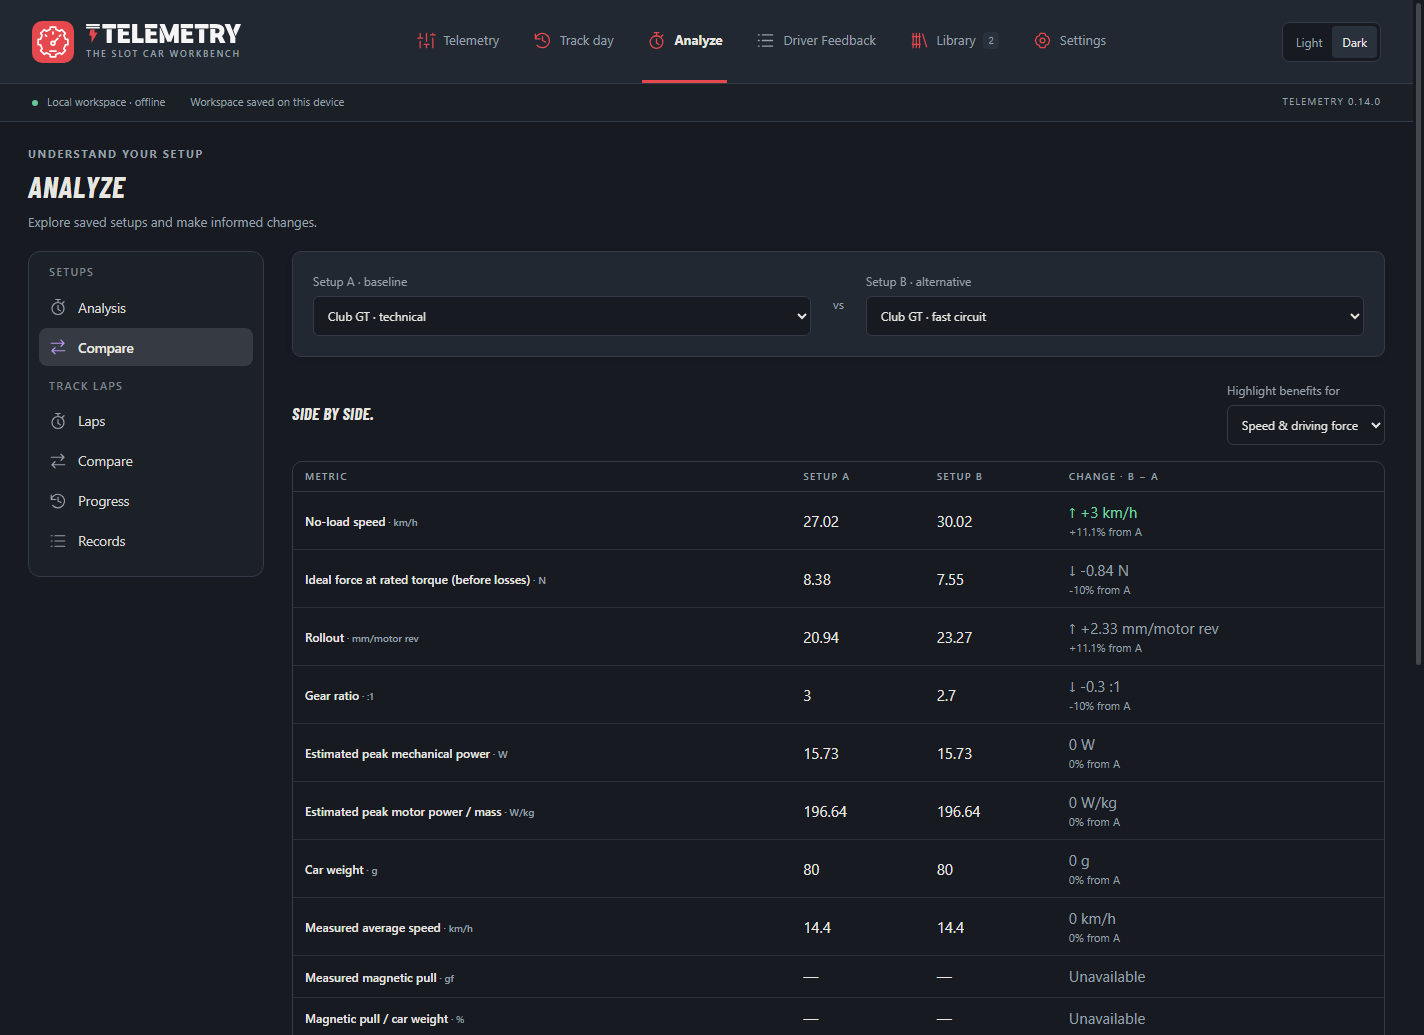
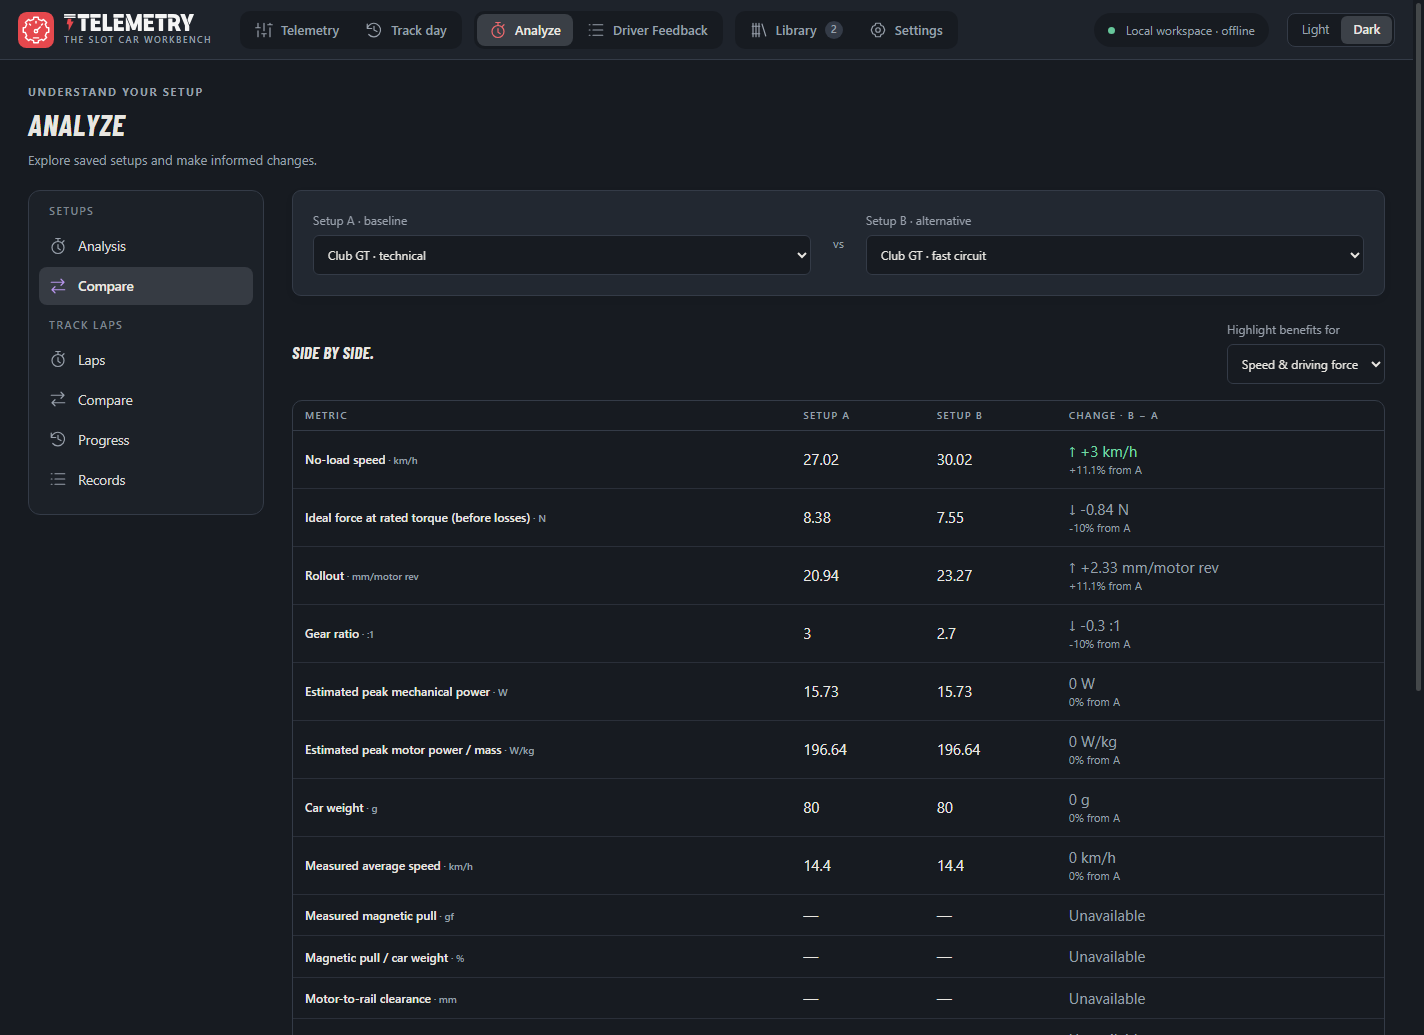
Top bar in the Pit Wall look: grouped tabs, status lights
The main menu is one slim bar: three tab groups on a dark track with the open
page lifted, the Paddock and save status as a small pill beside Light / Dark,
and the strip under it only for an update notice. Narrower windows drop the
light words, then the tab names; phones keep the icons on a second row.

diff --git a/renderer/pit-wall.css b/renderer/pit-wall.css
@@ -1,0 +1,61 @@
+/* SlotForge Restyle "Pit Wall": the main menu as one slim bar that never wraps on a desktop window. Three groups of tabs
+   on a dark track, the open tab lifted with its icon in the accent, status lights and the colour mode on the right.
+   Narrower windows first lose the words of the lights, then the tab names (the icons stay, names as tooltips).
+   Markup from pitWall() in design.js. Loaded last, so it overrides the older header rules. */
+
+html .app-header{flex-wrap:nowrap;min-height:60px;height:60px;padding:0 18px;gap:18px;background:color-mix(in srgb,var(--bg) 40%,var(--panel));border-bottom:1px solid var(--line)}
+html .app-header .brand{gap:10px;flex:none}
+html .app-header .brand-mark{width:36px;height:36px}
+html .app-header .brand-copy{height:36px;gap:4px}
+html .app-header .brand-wordmark{width:130px}
+html .app-header .brand-copy small{font-size:8.5px;line-height:10px;letter-spacing:.2em}
+
+/* ---------- Tabs in three groups ---------- */
+html .app-header .main-nav{order:0;flex:none;flex-basis:auto;display:flex;align-items:center;align-self:center;justify-content:flex-start;flex-wrap:nowrap;gap:6px;min-height:0;margin:0 0 0 10px;min-width:0}
+.main-nav .nav-group{display:flex;align-items:center;gap:2px;height:38px;padding:3px;border-radius:10px;background:rgba(0,0,0,.22)}
+[data-tone="light"] .main-nav .nav-group{background:color-mix(in srgb,var(--ink) 7%,transparent)}
+.main-nav .nav-group+.nav-group{margin-left:6px}
+html .main-nav a[data-route]{display:flex;align-items:center;gap:8px;height:100%;padding:0 12px;border:0;border-radius:8px;background:none;color:var(--muted);font:600 13px/1 'Segoe UI',system-ui,sans-serif;text-decoration:none;white-space:nowrap}
+html .main-nav a[data-route]:hover{color:var(--ink);background:color-mix(in srgb,var(--ink) 6%,transparent)}
+html .main-nav a[data-route][aria-current=page]{color:var(--ink);background:color-mix(in srgb,var(--ink) 12%,var(--panel));border:0;font-weight:600}
+html .main-nav a[data-route] .sf-icon{width:18px;height:18px;color:var(--muted)}
+html .main-nav a[data-route][aria-current=page] .sf-icon{color:var(--accent-text,var(--accent))}
+html .main-nav a[data-route] small{display:inline-grid;place-items:center;min-width:18px;height:18px;padding:0 5px;border-radius:999px;background:var(--line);color:var(--muted);font:600 10.5px/1 'Segoe UI',system-ui,sans-serif}
+
+/* ---------- Status lights and colour mode ---------- */
+.status-lights{margin-left:auto;flex:0 1 auto;display:flex;align-items:center;gap:12px;height:34px;padding:0 14px;border-radius:999px;background:rgba(0,0,0,.22);color:var(--muted);font-size:12px;white-space:nowrap;min-width:0}
+[data-tone="light"] .status-lights{background:color-mix(in srgb,var(--ink) 7%,transparent)}
+.status-lights>span{display:block;min-width:0;max-width:230px;overflow:hidden;text-overflow:ellipsis;white-space:nowrap}
+.status-lights .dot{width:7px;height:7px;margin:0 7px 0 0;vertical-align:1px}
+.status-lights #save-state{padding-left:12px;border-left:1px solid var(--line)}
+html .app-header .theme-switch{flex:none;margin-left:0;height:34px;padding:2px;border-radius:8px}
+html .app-header .theme-switch button{height:28px;padding:0 12px;border-radius:6px;font-size:12.5px}
+html .app-header .theme-switch button[aria-pressed=true]{background:color-mix(in srgb,var(--ink) 13%,var(--panel));color:var(--ink);font-weight:600}
+
+/* ---------- The strip under the bar: only for an update notice ---------- */
+.workspace-bar.pit-strip:not(:has(.update-notice)){display:none}
+.workspace-bar.pit-strip{align-items:center;min-height:40px;padding:4px 18px;background:linear-gradient(90deg,color-mix(in srgb,var(--accent) 18%,var(--bg)),var(--bg) 60%);font-size:12.5px}
+.workspace-bar.pit-strip .version{display:none}
+.workspace-bar.pit-strip .update-notice{margin:0;font-size:12.5px}
+
+/* ---------- Narrower windows ---------- */
+@media(max-width:1480px){.status-lights #save-state{position:absolute;width:1px;height:1px;overflow:hidden;clip:rect(0 0 0 0);white-space:nowrap;padding:0;border:0}}
+@media(max-width:1320px){
+  .status-lights #save-state{position:absolute;width:1px;height:1px;overflow:hidden;clip:rect(0 0 0 0);white-space:nowrap;padding:0;border:0}
+  .status-lights{padding:0 12px}
+  #paddock-global-status{font-size:0}
+  #paddock-global-status .dot{margin:0;vertical-align:middle}
+  .status-lights>span{max-width:none;overflow:visible}
+}
+@media(max-width:1180px){
+  html .main-nav .nav-word{display:none}
+  html .main-nav a[data-route]{padding:0 10px}
+  html .app-header .brand-copy small{display:none}
+}
+@media(max-width:860px){
+  html .app-header{height:auto;flex-wrap:wrap;padding:10px 14px;gap:10px}
+  html .app-header .main-nav{order:3;flex:1 1 100%;margin:0;justify-content:space-between;gap:6px}
+  .main-nav .nav-group{flex:1;justify-content:space-around}
+  .main-nav .nav-group+.nav-group{margin-left:0}
+  html .main-nav a[data-route] small{display:none}
+}

diff --git a/renderer/index.html b/renderer/index.html
@@ -1,4 +1,4 @@
-<!doctype html><html lang="en" data-theme="dark" data-tone="dark"><head><meta charset="utf-8"><meta name="viewport" content="width=device-width,initial-scale=1"><meta http-equiv="Content-Security-Policy" content="default-src 'self'; script-src 'self'; style-src 'self'; img-src 'self' data:; connect-src 'none'; object-src 'none'; base-uri 'none'; form-action 'none'"><title>SlotForge Telemetry</title><link rel="icon" href="../assets/icon.svg"><link rel="stylesheet" href="styles.css"><link rel="stylesheet" href="themes.css"><link rel="stylesheet" href="performance.css"><link rel="stylesheet" href="pages.css"><link rel="stylesheet" href="category-design.css"><link rel="stylesheet" href="race.css"><link rel="stylesheet" href="driver-feedback.css"><link rel="stylesheet" href="input-help.css"><link rel="stylesheet" href="workbench.css"><link rel="stylesheet" href="trackday.css"><link rel="stylesheet" href="garage.css"><link rel="stylesheet" href="restyle.css"><link rel="stylesheet" href="settings-sheet.css"><link rel="stylesheet" href="analyze-rail.css"><link rel="stylesheet" href="library-shell.css"><link rel="stylesheet" href="workbench-restyle.css"><link rel="stylesheet" href="restyle-finish.css"></head><body>
+<!doctype html><html lang="en" data-theme="dark" data-tone="dark"><head><meta charset="utf-8"><meta name="viewport" content="width=device-width,initial-scale=1"><meta http-equiv="Content-Security-Policy" content="default-src 'self'; script-src 'self'; style-src 'self'; img-src 'self' data:; connect-src 'none'; object-src 'none'; base-uri 'none'; form-action 'none'"><title>SlotForge Telemetry</title><link rel="icon" href="../assets/icon.svg"><link rel="stylesheet" href="styles.css"><link rel="stylesheet" href="themes.css"><link rel="stylesheet" href="performance.css"><link rel="stylesheet" href="pages.css"><link rel="stylesheet" href="category-design.css"><link rel="stylesheet" href="race.css"><link rel="stylesheet" href="driver-feedback.css"><link rel="stylesheet" href="input-help.css"><link rel="stylesheet" href="workbench.css"><link rel="stylesheet" href="trackday.css"><link rel="stylesheet" href="garage.css"><link rel="stylesheet" href="restyle.css"><link rel="stylesheet" href="settings-sheet.css"><link rel="stylesheet" href="analyze-rail.css"><link rel="stylesheet" href="library-shell.css"><link rel="stylesheet" href="workbench-restyle.css"><link rel="stylesheet" href="restyle-finish.css"><link rel="stylesheet" href="pit-wall.css"></head><body>
 <header class="app-header"><a class="brand" href="#telemetry"><span class="brand-mark"></span><span class="brand-copy"><span class="brand-wordmark" role="img" aria-label="SlotForge Telemetry"><img class="brand-wordmark-light" src="../assets/telemetry-wordmark-light.svg" alt="" width="698" height="87"><img class="brand-wordmark-dark" src="../assets/telemetry-wordmark-dark.svg" alt="" width="698" height="87"></span><small>THE SLOT CAR WORKBENCH</small></span></a><nav class="main-nav" aria-label="Main navigation"><a href="#telemetry" data-route="telemetry" >Telemetry</a><a href="#analyze" data-route="analyze" >Analyze</a><a href="#library" data-route="library" id="library-button">Library<small id="library-count">0</small></a><a href="#settings" data-route="settings" >Settings</a></nav><div class="theme-switch" role="group" aria-label="Colour mode"><button data-tone-choice="light">☀ Light</button><button data-tone-choice="dark">☾ Dark</button></div></header>
 <div class="workspace-bar"><span id="paddock-global-status"><i class="dot"></i> Local workspace · offline</span><span id="save-state" role="status">Ready</span><span class="version">TELEMETRY 0.14.0</span></div><main>
 <section data-page="telemetry"><div class="page-head"><div><p class="eyebrow">YOUR WORKBENCH</p><h1>Telemetry</h1><p>Build your setup. See the numbers come together.</p></div><div class="actions"><button class="btn" id="new-setup">New setup</button><button class="btn" id="open-setup">Open file</button><button class="btn" id="save-setup">Export file</button><button class="btn" id="setup-sheet" title="Download a printable one-page sheet of this setup">Setup sheet</button><button class="btn" id="save-copy">Save as copy</button><button class="btn primary" id="save-library">Save setup</button></div></div><p id="library-workspace-status" class="library-workspace-status" role="status"></p><input id="setup-file" type="file" accept=".json,application/json" hidden>

diff --git a/renderer/design.js b/renderer/design.js
@@ -1,4 +1,22 @@
 // Shared presentation only; calculation and saved-setup behaviour live elsewhere.
+// SlotForge Restyle (Pit Wall): the main menu is one slim bar. The six tabs sit in three groups on a dark track, the
+// connection and save status are small lights on the right, and the bar under it only appears for an update notice.
+function pitWall(){
+  const nav=document.querySelector('.main-nav'),header=document.querySelector('.app-header'),bar=document.querySelector('.workspace-bar');
+  const link=route=>nav.querySelector(`[data-route="${route}"]`);
+  const groups=[['Build','telemetry','trackday'],['Understand','analyze','feedback'],['Keep','library','settings']].map(([label,...routes])=>{
+    const group=document.createElement('div');group.className='nav-group';group.setAttribute('role','group');group.setAttribute('aria-label',label);
+    for(const route of routes){const a=link(route);if(!a)continue;group.append(a);
+      for(const node of [...a.childNodes])if(node.nodeType===3&&node.textContent.trim()){const word=document.createElement('span');word.className='nav-word';word.textContent=node.textContent.trim();node.replaceWith(word);a.title=word.textContent;}}
+    return group;
+  });
+  const rest=[...nav.children].filter(el=>!el.classList.contains('nav-group'));nav.replaceChildren(...groups.filter(g=>g.children.length),...rest);
+  const lights=document.createElement('div');lights.className='status-lights';
+  for(const id of ['paddock-global-status','save-state']){const el=document.getElementById(id);if(!el)continue;lights.append(el);
+    const tip=()=>{el.title=el.textContent.trim();};tip();new MutationObserver(tip).observe(el,{childList:true,characterData:true,subtree:true});}
+  header.querySelector('.theme-switch').before(lights);
+  bar?.classList.add('pit-strip');
+}
 function initializeDesign(){
   const homeHead=document.querySelector('[data-page=telemetry] .page-head'),setupPanel=document.querySelector('.setup-panel');
   homeHead.classList.add('workbench-toolbar');homeHead.firstElementChild.replaceChildren(setupPanel);
@@ -48,6 +66,7 @@ function initializeDesign(){
     const [tone,name]=topicStyle[button.dataset.analysisTopic];button.dataset.category=tone;button.insertAdjacentHTML('afterbegin',sfIcon(name));
   }
   for(const link of document.querySelectorAll('[data-analysis-mode]')){const mode=link.dataset.analysisMode;link.dataset.category=['compare','racecompare'].includes(mode)?'tyres':mode==='overview'?'gearing':mode==='records'?'speed':mode==='progress'?'weight':'motor';link.insertAdjacentHTML('afterbegin',sfIcon(['compare','racecompare'].includes(mode)?'transfer':mode==='records'?'list':mode==='progress'?'history':'timer'));}
+  pitWall();
   for(const link of document.querySelectorAll('.settings-nav a')){const help=link.hash.includes('calculations'),paddock=link.hash.includes('paddock'),backups=link.hash.includes('backups'),updates=link.hash.includes('updates');link.dataset.category=paddock?'weight':help?'motor':backups?'speed':updates?'gearing':'tyres';link.insertAdjacentHTML('afterbegin',sfIcon(paddock?'transfer':help?'list':backups?'history':updates?'download':'palette'));}
   for(const panel of document.querySelectorAll('[data-analysis-panel]'))panel.dataset.category=topicStyle[panel.dataset.analysisPanel][0];
   document.querySelector('#settings-appearance').dataset.category='tyres';

diff --git a/CHANGELOG.md b/CHANGELOG.md
@@ -58,6 +58,12 @@ Telemetry starts to follow the new shared SlotForge look of Timing and Paddock (
 - Optional sections open from plain names with a small arrow instead of blue links. *Next useful question* and *How does your car behave?* (on the workbench) are quiet boxes with a thin accent line.
 - In the top menu, Driver Feedback is marked like the other pages when it is open.
 
+### The top bar in the new look
+
+- **One slim bar:** the six pages sit in three groups on a dark track: Telemetry and Track day, Analyze and Driver Feedback, Library and Settings. The open page is lifted in grey with its icon in the accent colour.
+- **Status lights on the right:** the Paddock connection and the save state are a small pill next to Light / Dark, so the separate grey line under the menu is gone. In narrower windows the words go first (hover the light to read them), then the page names; the icons always stay.
+- The line under the bar only appears when a new version is available, with *Download* and *Not now*.
+
 ### Finishing touches
 
 - **Every table** has the same quiet look: small grey capitals over the columns, thin lines between rows and a light highlight on hover. The selected setup in the Library is lifted in grey. The gear chart keeps its own grid.
